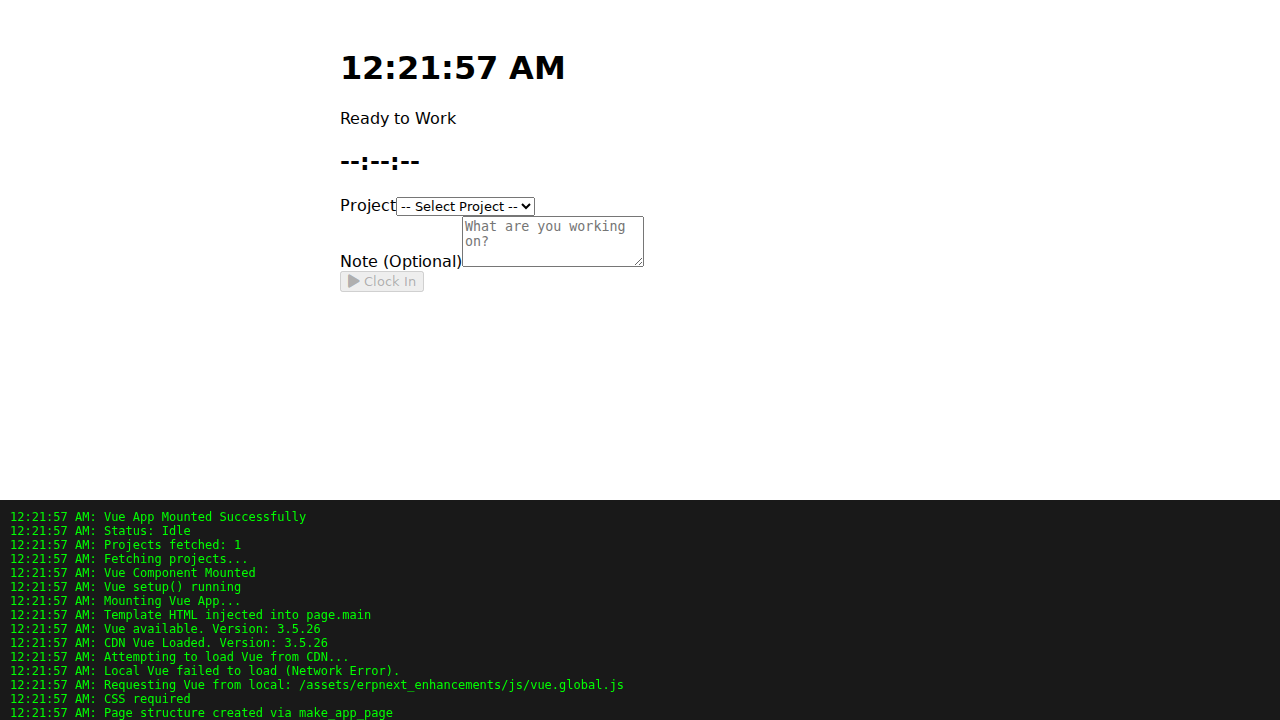
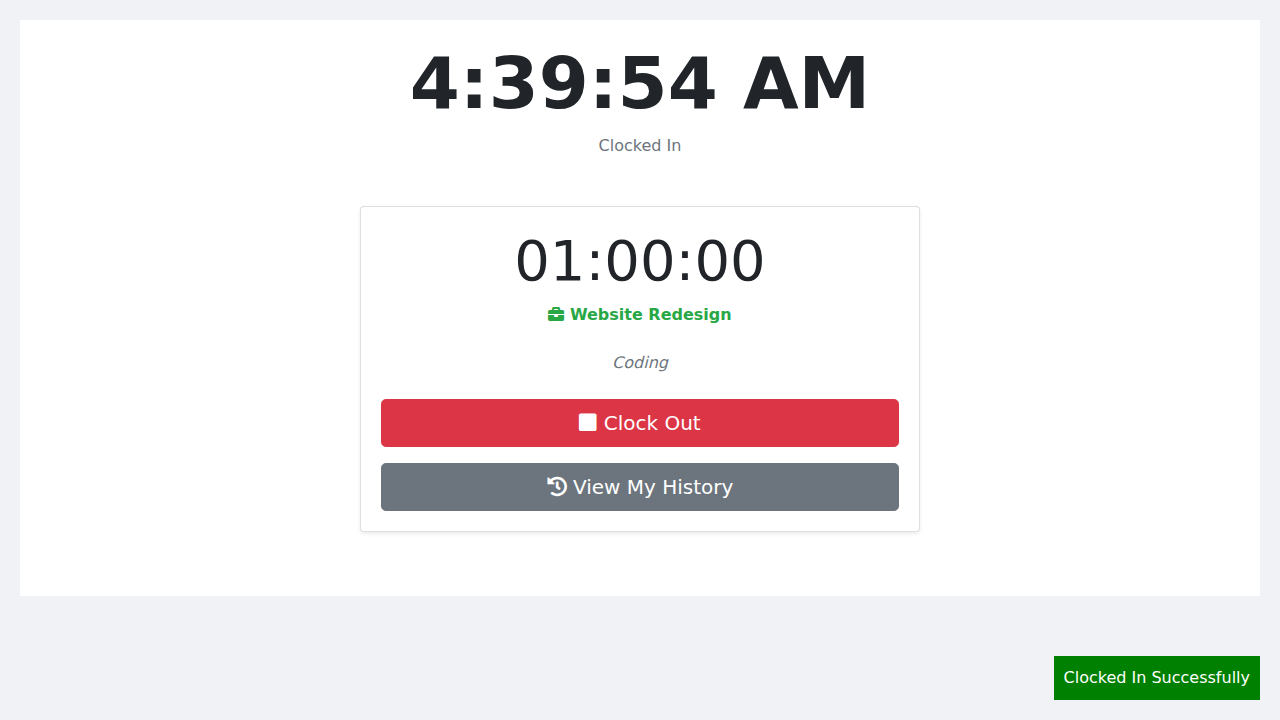
feat: Prevent clock-in without project and switch to Link field
- Backend:
  - Enforce `project` as mandatory in `log_time` (Start action).
  - Implement rescue mechanism in `sync_interval_to_timesheet` to skip sync if project is missing (allows clock-out).
- Frontend:
  - Replace Project dropdown with `frappe.ui.form.make_control` Link field.
  - Filter Link field by `is_active='Yes'`.
  - Fix loading state handling for the new control.

diff --git a/erpnext_enhancements/erpnext_enhancements/page/time_kiosk/time_kiosk.js b/erpnext_enhancements/erpnext_enhancements/page/time_kiosk/time_kiosk.js
@@ -19,9 +19,7 @@ const TIME_KIOSK_TEMPLATE = `<div id="time-kiosk-app" class="time-kiosk-containe
             <div id="tk-input-section">
                 <div class="form-group">
                     <label>Project</label>
-                    <select id="tk-project-select" class="form-control">
-                        <option value="">-- Select Project --</option>
-                    </select>
+                    <div id="tk-project-wrapper"></div>
                 </div>
 
                 <div class="form-group">
@@ -114,7 +112,11 @@ const init_time_kiosk = function(wrapper) {
 
         const $inputSection = $('#tk-input-section');
         const $readOnlyNoteSection = $('#tk-read-only-note-section');
-        const $projectSelect = $('#tk-project-select');
+
+        // Link Field Wrapper
+        const $projectWrapper = $('#tk-project-wrapper');
+        let projectControl = null;
+
         const $noteInput = $('#tk-note-input');
         const $readOnlyNote = $('#tk-read-only-note');
 
@@ -128,9 +130,40 @@ const init_time_kiosk = function(wrapper) {
         let kioskState = {
             status: null, // 'Open', 'Idle'
             currentInterval: null,
-            projects: [],
             loading: false
         };
+
+        // 3.5 Initialize Link Field
+        // Use frappe.ui.form.make_control to create a standard Link field
+        try {
+            projectControl = frappe.ui.form.make_control({
+                parent: $projectWrapper,
+                df: {
+                    fieldtype: 'Link',
+                    options: 'Project',
+                    fieldname: 'project',
+                    label: 'Project',
+                    placeholder: 'Select Project...',
+                    reqd: 1,
+                    only_select: 1 // Attempt to render cleaner if possible, though Link ignores it
+                },
+                render_input: true
+            });
+
+            // Apply Custom Filter: Active Projects Only
+            projectControl.get_query = function() {
+                return {
+                    filters: {
+                        is_active: 'Yes' // Fallback handled by user preference, but usually 'Yes'
+                    }
+                };
+            };
+
+            // Bind change event to update local state if needed (not strictly needed as we read value on action)
+            debug_log("Link field created successfully");
+        } catch (e) {
+            debug_log("Error creating Link field: " + e.message);
+        }
 
         // 4. UI Helpers
         const setLoading = (isLoading) => {
@@ -140,14 +173,20 @@ const init_time_kiosk = function(wrapper) {
                 $statusText.hide();
                 $btnClockIn.prop('disabled', true);
                 $btnClockOut.prop('disabled', true);
-                $projectSelect.prop('disabled', true);
+                if (projectControl) {
+                    projectControl.df.read_only = 1;
+                    projectControl.refresh();
+                }
                 $noteInput.prop('disabled', true);
             } else {
                 $loadingMsg.hide();
                 $statusText.show();
                 $btnClockIn.prop('disabled', false);
                 $btnClockOut.prop('disabled', false);
-                $projectSelect.prop('disabled', false);
+                if (projectControl) {
+                    projectControl.df.read_only = 0;
+                    projectControl.refresh();
+                }
                 $noteInput.prop('disabled', false);
             }
         };
@@ -182,16 +221,6 @@ const init_time_kiosk = function(wrapper) {
                 $btnClockOut.hide();
                 $timerDisplay.text('--:--:--');
             }
-        };
-
-        const renderProjects = () => {
-            $projectSelect.empty();
-            $projectSelect.append('<option value="">-- Select Project --</option>');
-            kioskState.projects.forEach(p => {
-                const name = p.project_name || p.name;
-                const $opt = $('<option></option>').val(p.name).text(name);
-                $projectSelect.append($opt);
-            });
         };
 
         const updateHistoryLink = (employeeId) => {
@@ -229,22 +258,7 @@ const init_time_kiosk = function(wrapper) {
         updateClock(); // Initial call
 
         // 6. Data Fetching
-        const fetchProjects = () => {
-            debug_log("Fetching projects...");
-            frappe.call({
-                method: 'erpnext_enhancements.api.time_kiosk.get_projects',
-                callback: (r) => {
-                    if (r.message) {
-                        kioskState.projects = r.message;
-                        debug_log("Projects fetched: " + kioskState.projects.length);
-                        renderProjects();
-                    } else {
-                        debug_log("No projects returned or empty message");
-                    }
-                },
-                error: (r) => { debug_log("Error fetching projects: " + JSON.stringify(r)); }
-            });
-        };
+        // Deprecated: fetchProjects (replaced by Link field)
 
         const fetchStatus = () => {
             setLoading(true);
@@ -264,14 +278,6 @@ const init_time_kiosk = function(wrapper) {
                         kioskState.status = 'Idle';
                         kioskState.currentInterval = null;
                         debug_log("Status: Idle");
-
-                        // If idle, we still might want the employee ID.
-                        // If backend returns null message, we can't get it easily.
-                        // Ideally get_current_status should always return metadata if logged in.
-                        // For now, if logged in but idle, we might not get employee ID until next fetch or if backend supports it.
-                        // I will rely on the backend sending it even if idle, or fetch separately if needed.
-                        // Checking get_current_status backend logic: returns None if no open interval.
-                        // I'll update backend to return {status: 'Idle', employee: '...'} instead of None.
 
                         if (r.message && r.message.employee) {
                              updateHistoryLink(r.message.employee);
@@ -311,7 +317,11 @@ const init_time_kiosk = function(wrapper) {
         };
 
         const handleAction = async (action) => {
-            const selectedProject = $projectSelect.val();
+            // Get value from Link Control
+            let selectedProject = null;
+            if (projectControl) {
+                selectedProject = projectControl.get_value();
+            }
             const description = $noteInput.val();
 
             if (action === 'Start' && !selectedProject) {
@@ -339,6 +349,7 @@ const init_time_kiosk = function(wrapper) {
                         frappe.show_alert({message: r.message.message, indicator: 'green'});
                         // Clear inputs
                         $noteInput.val('');
+                        if (projectControl) projectControl.set_value('');
                         fetchStatus(); // Will update UI
                         debug_log("Action successful: " + r.message.message);
                     } else {
@@ -358,7 +369,6 @@ const init_time_kiosk = function(wrapper) {
         $btnClockOut.on('click', () => handleAction('Stop'));
 
         // 8. Initial Load
-        fetchProjects();
         fetchStatus();
 
     } catch (e) {

diff --git a/erpnext_enhancements/api/time_kiosk.py b/erpnext_enhancements/api/time_kiosk.py
@@ -16,6 +16,9 @@ def log_time(project, action, lat=None, lng=None, description=None):
         frappe.throw(_("No Employee record found for this user ({0}).").format(user), frappe.PermissionError)
 
     if action == "Start":
+        if not project:
+            frappe.throw(_("Project is required to start work."))
+
         # Check for existing open interval
         existing = frappe.db.exists("Job Interval", {
             "employee": employee,
@@ -68,6 +71,12 @@ def sync_interval_to_timesheet(interval_doc):
     try:
         employee = interval_doc.employee
         project = interval_doc.project
+
+        # RESCUE MECHANISM: If project is missing (e.g. bad data), allow stop but skip sync
+        if not project:
+            interval_doc.db_set("sync_status", "Skipped - No Project")
+            return
+
         start_time = get_datetime(interval_doc.start_time)
         end_time = get_datetime(interval_doc.end_time)
 
